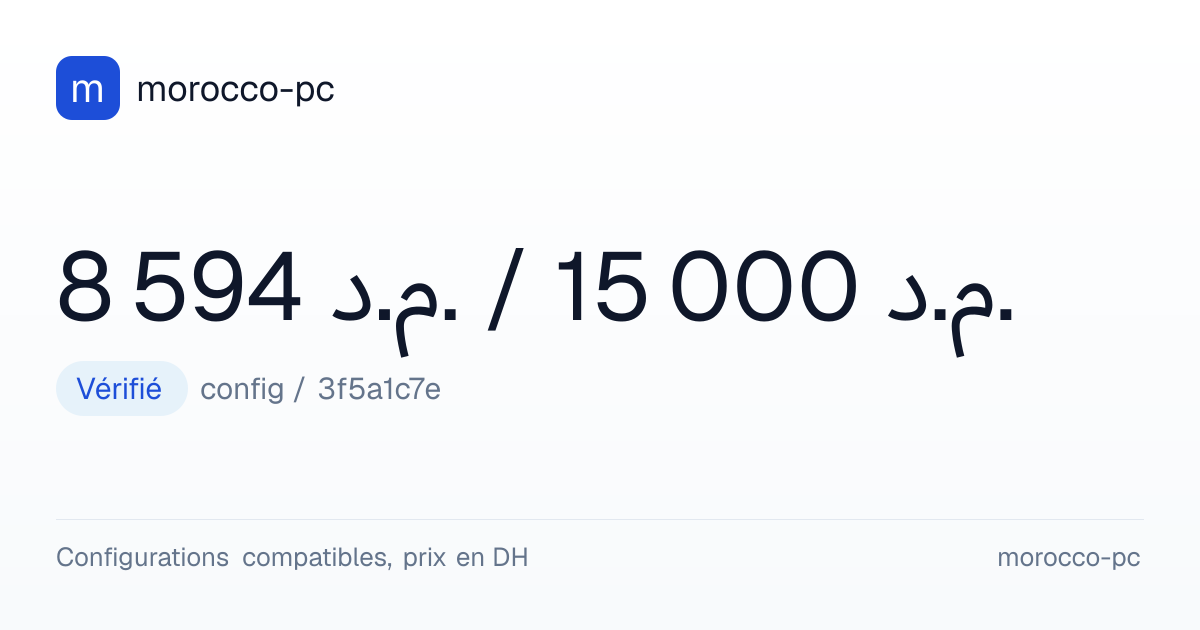
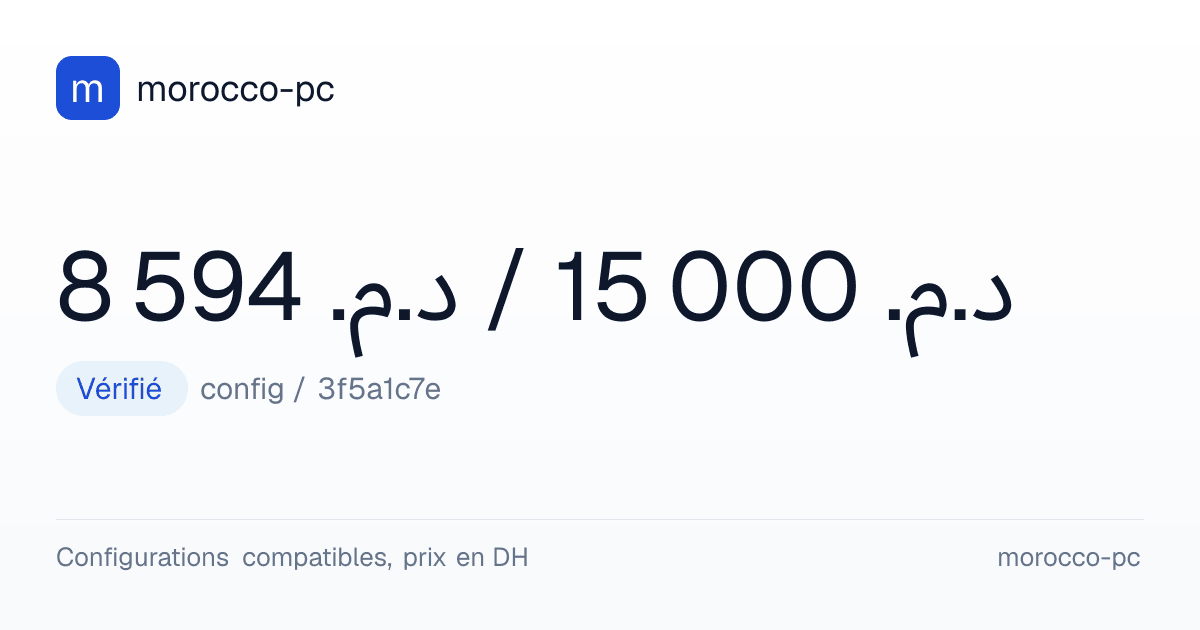
chore(web): refresh the four Arabic OG review captures
The committed cards predated the D-31 render fix, so owner check (b) would
have been judged against pixels that still showed the dirham reversed.
Re-ran the pack capture (exit 0, 65 images, only the two og/ cards changed)
and refreshed the two design/checks copies from that run; the unit ink now
measures [10,40,10,37] and [11,44,11,39], and the live pin is 4/4.

Also corrects the G3 record: the global-error attempt's stash does not
exist, and its byte criterion was never the blocker - the LCP observation
was.

Generated with Codebuff 🤖

Changed region(s): [[0.74, 0.4222, 0.8633, 0.573], [0.2775, 0.4222, 0.4008, 0.573], [0.0617, 0.6032, 0.1233, 0.6333]]

diff --git a/docs/web-v2/PROGRESS.md b/docs/web-v2/PROGRESS.md
@@ -40,7 +40,8 @@ remain OPEN, which is why the gate is not passed:
 | d | tab bar copy on a real phone — D-20's "Pièces" / "Gardés" | `DEVIATIONS.md` D-20 |
 
 **Re-verified 2026-11-05 after D-31 - see the G3 re-verification section at the end of this file.**
-Check (b)'s four committed images are still PRE-FIX (ink measured), so regenerate them before judging it.
+Check (b)'s four images were re-captured on 2026-11-05: the unit ink now measures `[10, 40, 10, 37]` and
+`[11, 44, 11, 39]`, so the cards match the shipped render.
 
 The suite's size is deliberately not written into this file's prose: `cd apps/web && npx playwright test
 --list` prints it, and `npm test` now runs four viewport projects, so a run count and a spec count are
@@ -746,7 +747,7 @@ with the evidence that satisfies it. Nothing below is inferred from a green suit
 - **The S4 error-boundary spec LANDED 2026-11-05** (see `## Task 4`): option 2 — a 200 body with no
   `components` — puts the throw inside the render, so `error.tsx` catches it in both locales. A 5xx
   still belongs to the page's own `unavailable` state, deliberately.
-- **`app/global-error.tsx` is NOT shipped — attempted 2026-11-05 and BLOCKED on the byte criterion.**
+- **`app/global-error.tsx` is NOT shipped — attempted 2026-11-05 and reverted on the LCP observation, not on bytes.**
   The boundary was built (its own `html`/`body`, tokens only, no kit component, static French + Arabic
   copy generated from a `globalErrors` namespace through `gen-error-copy.mjs`, so `check:i18n` rule 7
   covers it) and measured on both budgeted URLs: **+801 B of script on each** (result 170 942 → 171 743 B,
@@ -758,7 +759,10 @@ with the evidence that satisfies it. Nothing below is inferred from a green suit
   chunk costing ~140 ms on the one route that sits ON the 2500 ms budget, though LCP at HEAD is itself
   borderline: it has passed at 2491 and failed at 2500.31 on identical code.
 
-  Reverted; the attempt is the `git stash` entry "task5 global-error attempt (+801 B script, BLOCKED)".
+  Reverted, and **the attempt does not survive anywhere**: this file used to point at a `git stash`
+  entry, but `git stash list` and `git reflog show refs/stash` are both empty (stash refs are repo-wide,
+  so no worktree hides it). Only the measurements above remain, so shipping this means rebuilding the
+  boundary. Since D-29 the simulated LCP is a `warn`, so neither gate is red either way.
   The decision — accept the bytes and the LCP risk, or keep Next's default root page — is the owner's.
 - The LCP margin is **14 ms / 9 ms** — the thinnest this gate has run at. T7's local 2 640 ms red did
   not reproduce here, so a future red in the 2.5-2.7 s band is variance until an A/B says otherwise.
@@ -926,7 +930,7 @@ Budgets unchanged (LCP 2 500 ms `warn` since D-29; CLS 0.1, script 174 080 B, pe
 `error`): script margins 3 058 B / 4 330 B. The preset's first run reached 2 561 ms; the median did not
 follow it.
 
-### Finding - all four committed Arabic review images are PRE-FIX (D-31)
+### Finding - all four committed Arabic review images were PRE-FIX, refreshed 2026-11-05 (D-31)
 
 Every committed card predates the D-31 render fix, so it still draws the unit in LOGICAL order.
 Measured with an ink probe (`sharp`, luma < 48, the headline's four rightmost runs):
@@ -939,12 +943,23 @@ Measured with an ink probe (`sharp`, luma < 48, the headline's four rightmost ru
 | `apps/web/design/checks/d7-og-preset-ar.png` | `[40, 11, 43, 11]` | **old** |
 | freshly rendered (this tree, `e2e/og-unit-ink.spec.ts`) | `[10, 40, 10, 37]` / `[11, 44, 11, 39]` | dot, م, dot, د - **correct** |
 
-So owner check (b) must not be judged against those files yet. Refresh with `node scripts/g3-capture.mjs`
-(all 65 `design/g3-review/` captures) plus a re-capture of the two `design/checks/d7-og-*.png`. Not done
-here: it rewrites 67 tracked images from its own servers, a separate reviewable change.
+**Refreshed 2026-11-05.** `node scripts/g3-capture.mjs` ran to exit 0 (65 images, 1 823 KB of 3 072 KB,
+WebKit INSTALLED), and **only the two `og/` cards changed** - the other 63 captures came back
+byte-identical, so nothing else in the pack was stale. The two `design/checks/d7-og-*.png` have no
+committed producer (`tmp/d7-shot.mjs` only writes the price shot), so they were refreshed from the same
+run: same 1200 x 630 cards, and the HEAD versions differed from the pack's only in PNG encoding
+(52 776 / 40 972 B against 13 593 / 9 266 B for the same pixels).
+
+| File | Unit ink after the refresh | Reading |
+|---|---|---|
+| `design/g3-review/og/og-result.ar.1200x630.png` + `design/checks/d7-og-config-ar.png` | `[10, 40, 10, 37]` | dot, م, dot, د - **correct** |
+| `design/g3-review/og/og-preset.ar.1200x630.png` + `design/checks/d7-og-preset-ar.png` | `[11, 44, 11, 39]` | **correct** |
+
+`npx playwright test e2e/og-unit-ink.spec.ts` is **4 passed, exit 0** on the same tree, and both cards
+were viewed at 1 200 x 630: real glyphs, no boxes, legible. Owner check (b) can be judged now.
 
 ### Still not verified
 
-`node scripts/g3-capture.mjs` (and WebKit's presence), a clean `npm ci`, visual legibility of the cards,
-and the four owner checks. G3 stays **evidence complete, awaiting owner sign-off** - only the owner
-closes it.
+A clean `npm ci` and the four owner checks. `node scripts/g3-capture.mjs` ran on 2026-11-05 to exit 0
+(WebKit INSTALLED) and the two cards were viewed at 1 200 x 630, so capture and legibility are no longer
+open. G3 stays **evidence complete, awaiting owner sign-off** - only the owner closes it.

diff --git a/docs/web-v2/G3_REVIEW_PACK.md b/docs/web-v2/G3_REVIEW_PACK.md
@@ -16,9 +16,9 @@ read as a measurement, and so the images the review is about are one click away.
 > @768 `الأدلة` 46.4 x 44.0 px), S15 is now **PASS** (12 px fr / 13 px ar), and check A is **PASS**
 > because `812f726` replaced the dot wording with containment. Today's commands: those two specs
 > **48/48, exit 0**; `npm run test:lighthouse` **exit 0** (LCP 2 488 / 2 476 ms, CLS 0.000, script
-> 171 022 / 169 750 B, performance 0.98). **The OG images in §5 and §7 are PRE-FIX:** measured unit
-> ink `[37,10,40,10]` and `[40,11,43,11]` where the fixed cards render `[10,40,10,37]` and
-> `[11,44,11,39]`. Regenerate with `node scripts/g3-capture.mjs` before judging check B. Full record:
+> 171 022 / 169 750 B, performance 0.98). **The OG images in §5 and §7 were PRE-FIX at that run, and were re-captured on 2026-11-05:**
+> `node scripts/g3-capture.mjs` exited 0, only the two cards changed (the other 63 captures came back
+> byte-identical), and the unit ink now measures `[10,40,10,37]` / `[11,44,11,39]` - the fixed order. Full record:
 > the G3 re-verification section of `PROGRESS.md`.
 
 ---
